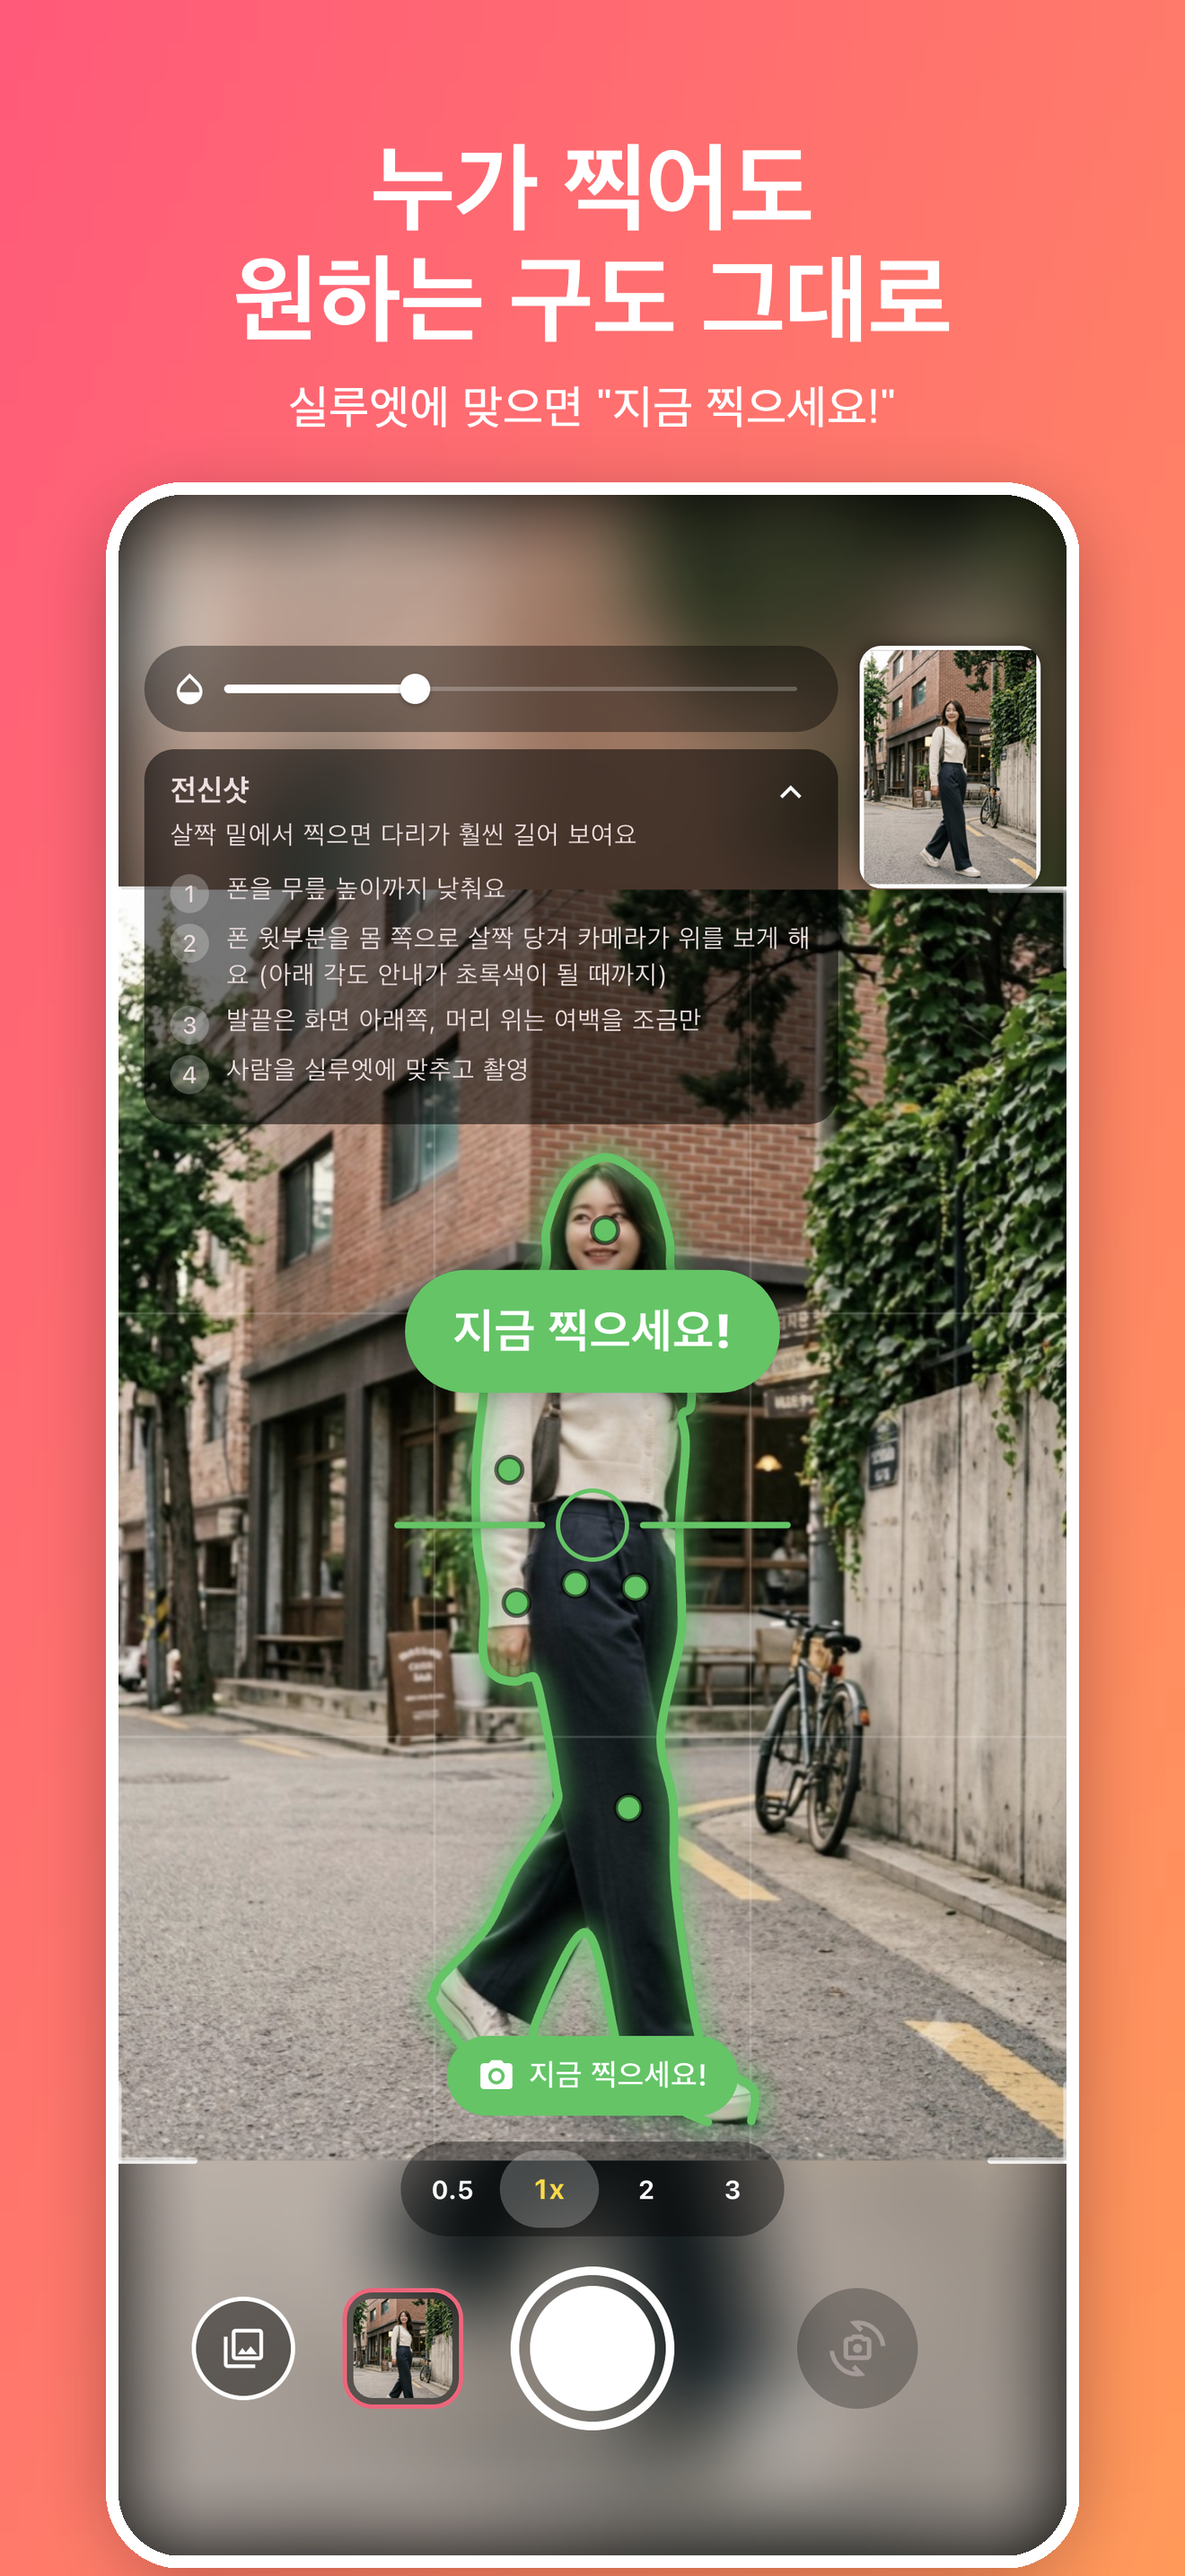
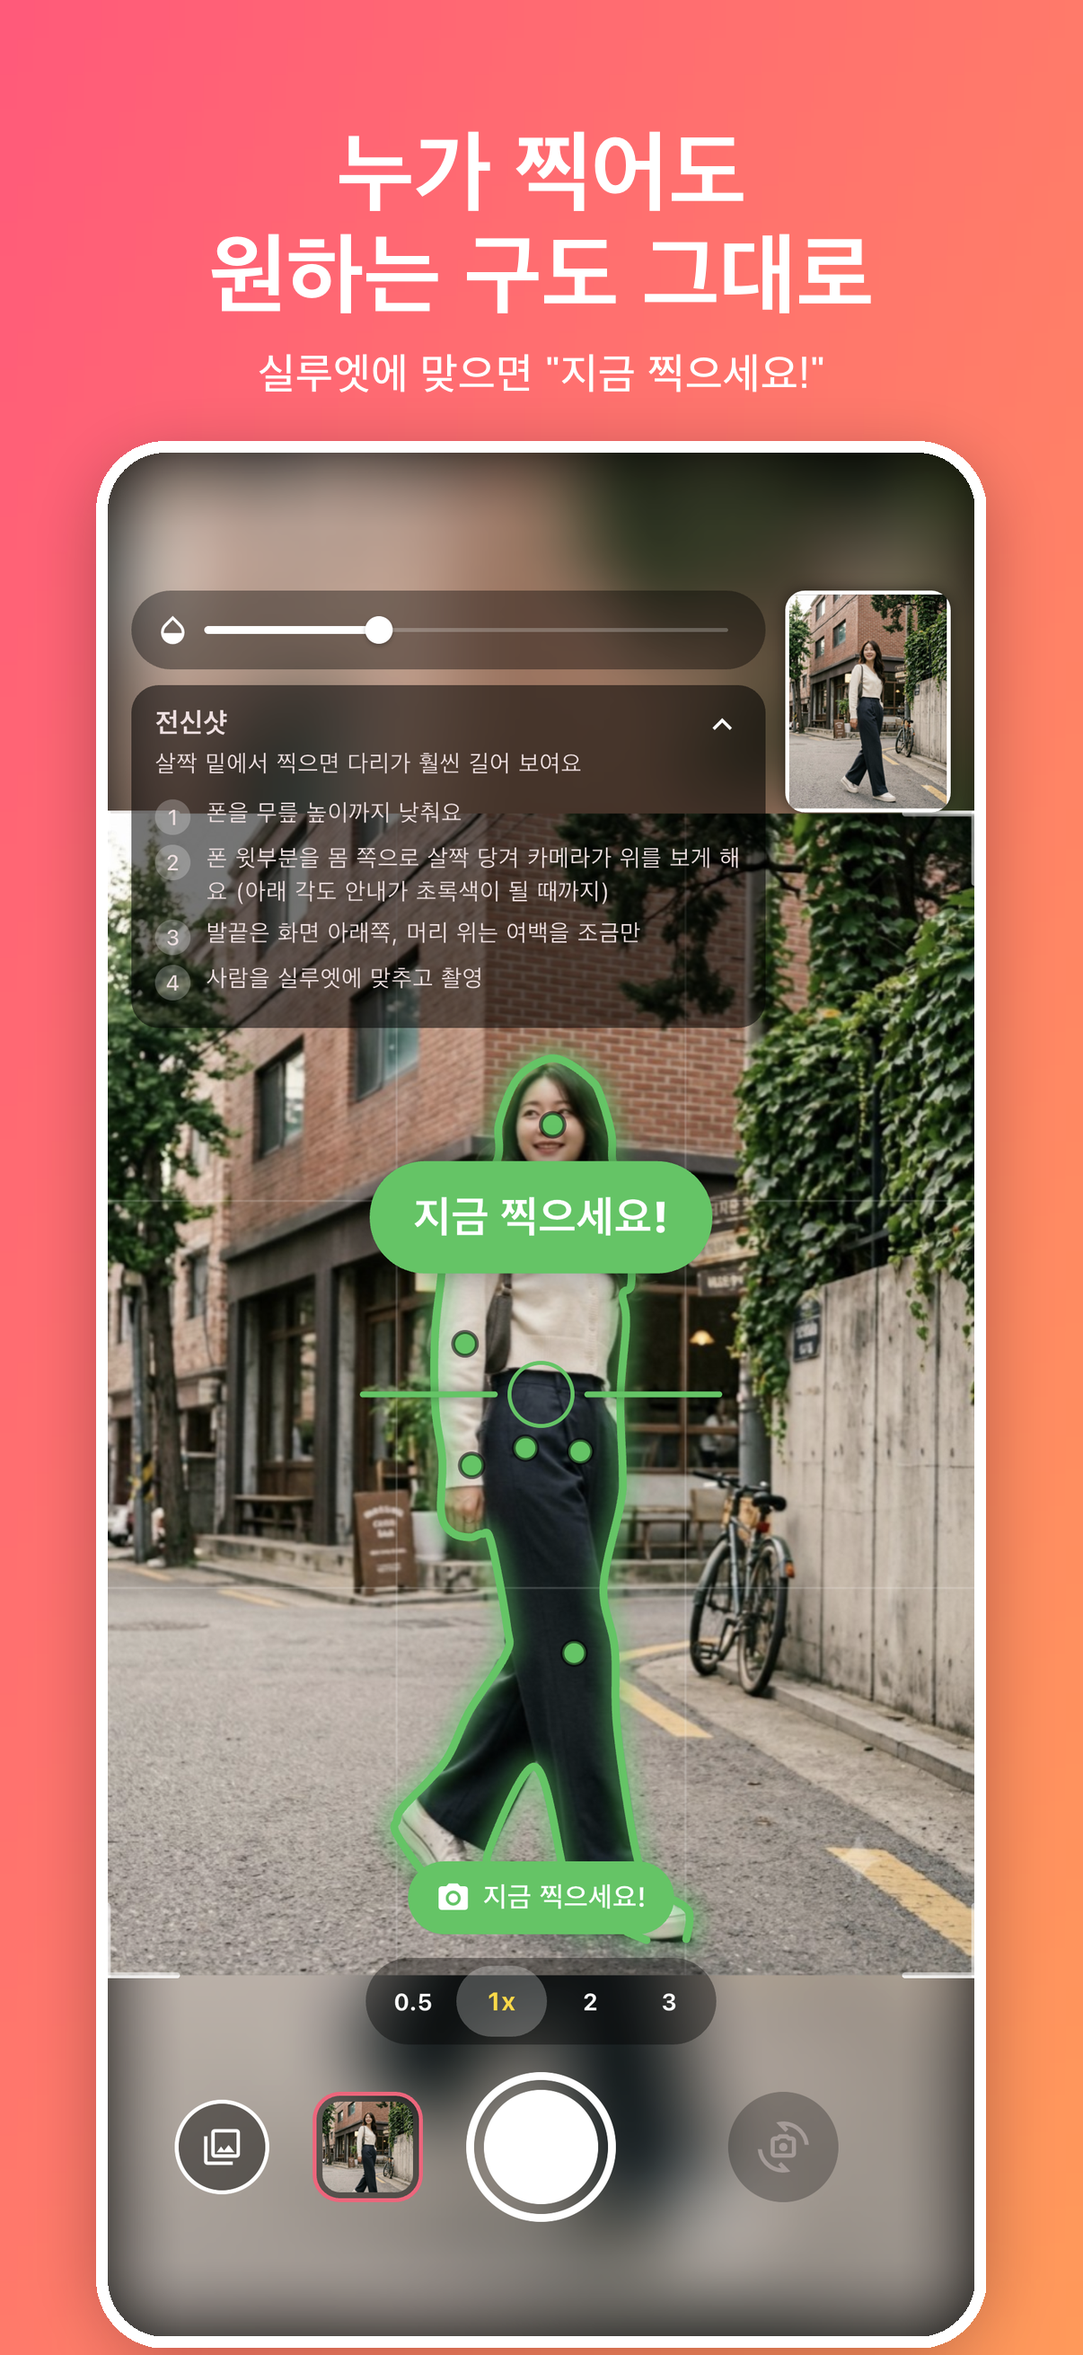
fix(store): App Store 스크린샷을 App Store Connect 요구 크기(1206x2622)로 변경 (#13)
- 1320x2868은 업로드 시 크기 오류로 거부되어 iPhone 6.3" 기본 크기로 재생성

diff --git a/mobile/tool/store_assets.py b/mobile/tool/store_assets.py
@@ -1,7 +1,7 @@
 """스토어 등록용 이미지 생성.
 
 입력: build/store_screenshots/*.png (integration_test/store_screenshots_test.dart 결과, 1320x2868)
-출력: store/ios/*.png (App Store 6.9", 1320x2868)
+출력: store/ios/*.png (App Store iPhone 6.3", 1206x2622 — App Store Connect 기본 요구 크기)
       store/android/*.png (Play 휴대전화 스크린샷 1080x1920, 그래픽 이미지 1024x500, 아이콘 512x512)
 
 실행 (mobile 폴더에서): uv run --with pillow python tool/store_assets.py
@@ -112,7 +112,7 @@ def main() -> None:
     OUT_ANDROID.mkdir(parents=True, exist_ok=True)
     for name, title, subtitle in SLIDES:
         shot = SHOTS / f"{name}.png"
-        slide(shot, title, subtitle, 1320, 2868).save(OUT_IOS / f"{name}.png", optimize=True)
+        slide(shot, title, subtitle, 1206, 2622).save(OUT_IOS / f"{name}.png", optimize=True)
         slide(shot, title, subtitle, 1080, 1920).save(OUT_ANDROID / f"{name}.png", optimize=True)
     feature_graphic().save(OUT_ANDROID / "feature_graphic.png", optimize=True)
     Image.open(ICON).convert("RGB").resize((512, 512), Image.LANCZOS).save(OUT_ANDROID / "icon_512.png", optimize=True)
